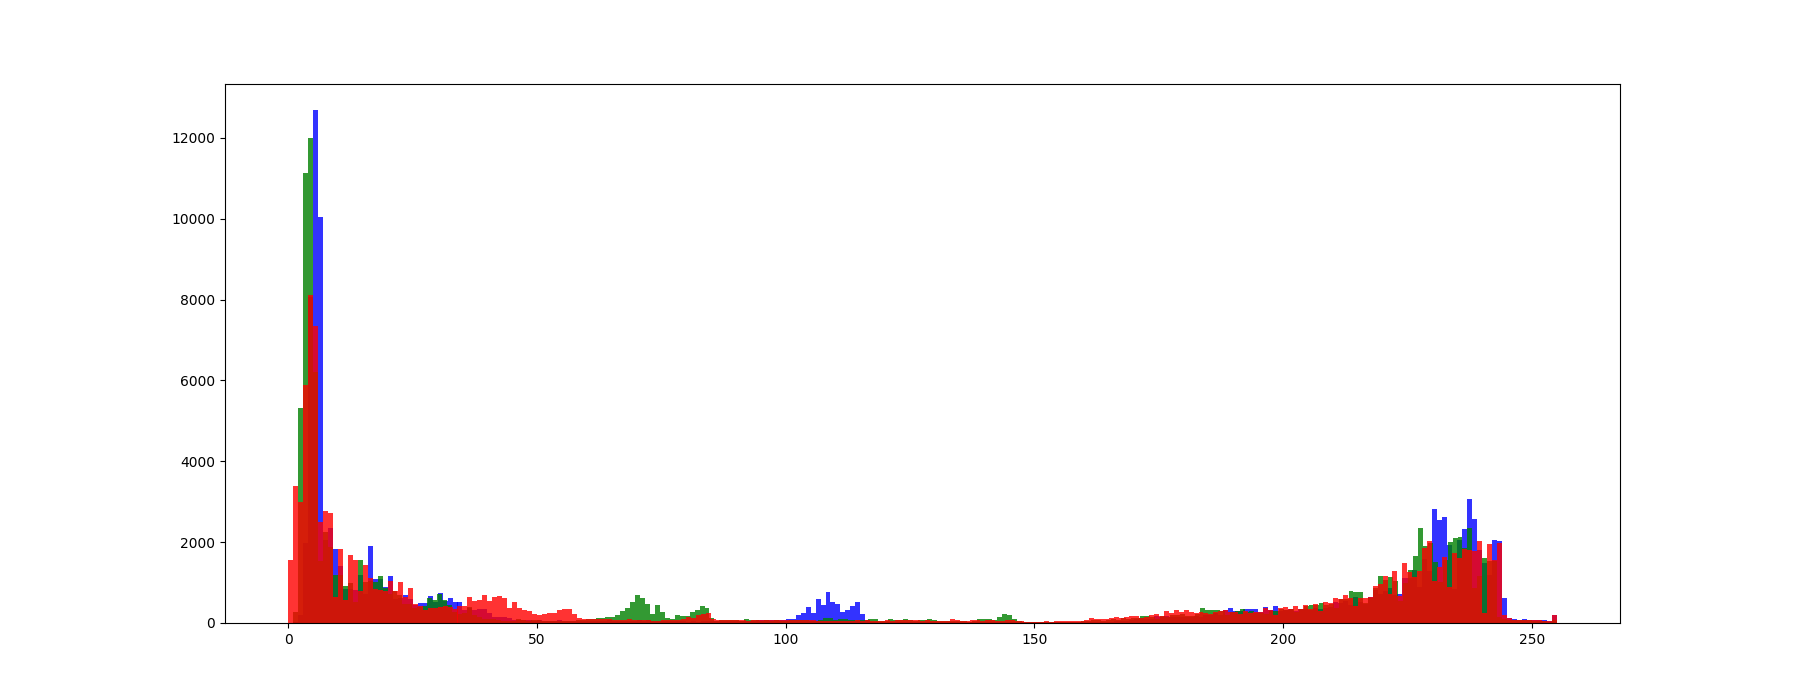
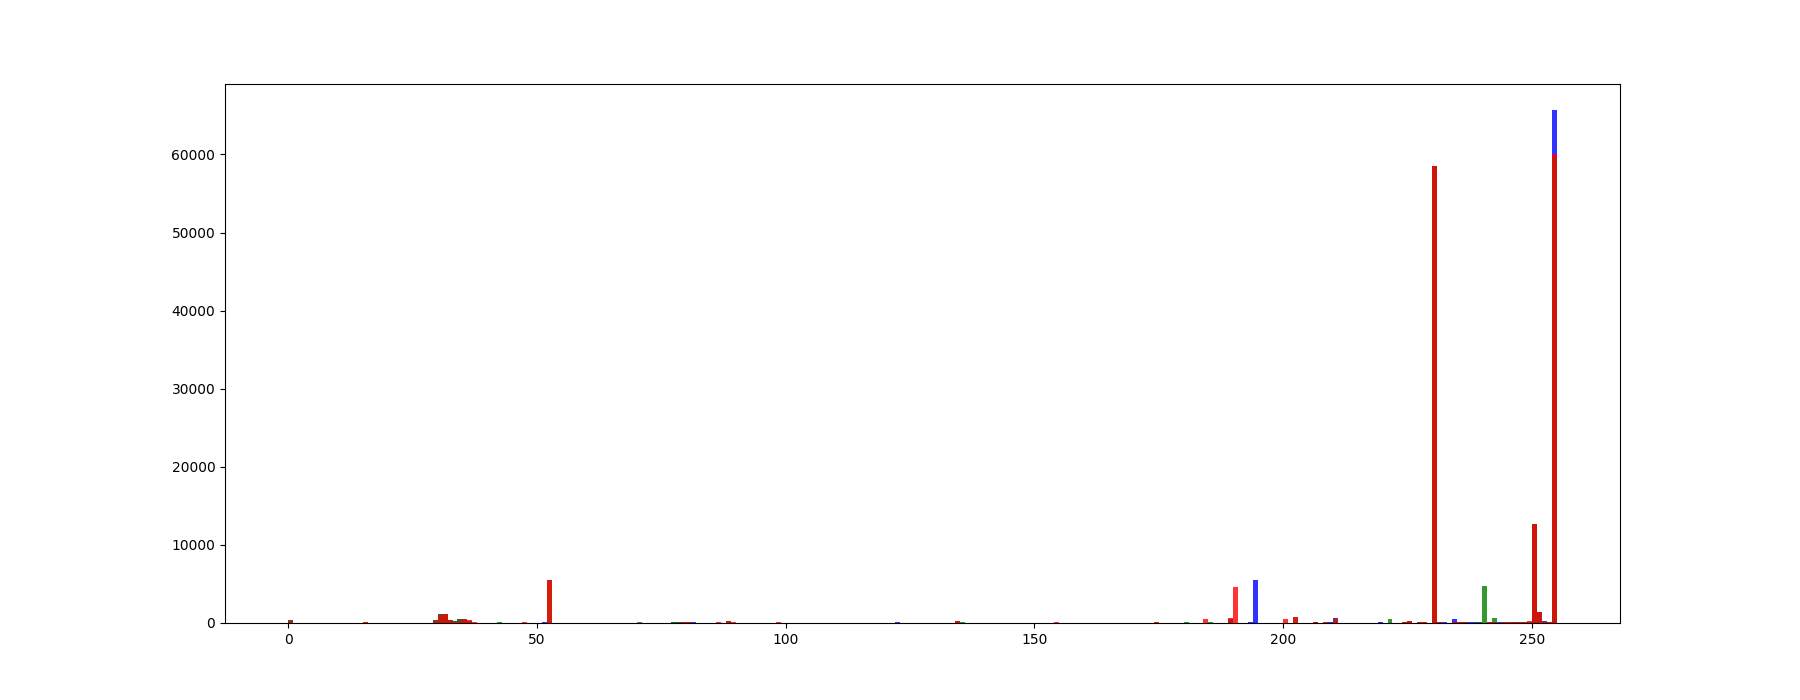
fungsi gui dah kelar semua, tinggal fungsi tombol masing2

diff --git a/GUI3.py b/GUI3.py
@@ -2,7 +2,7 @@ import tkinter as tk
 from tkinter import ttk, NW, filedialog, E, W
 from tkinter import filedialog as fd
 from tkinter.messagebox import showinfo
-
+import os
 from PIL.ImageTk import PhotoImage
 from matplotlib import pyplot as plt
 import numpy as np
@@ -11,6 +11,8 @@ import cv2
 from PIL import Image, ImageTk
 from matplotlib.backends.backend_tkagg import FigureCanvasTkAgg
 from matplotlib.figure import Figure
+
+from RTAgung import RTA
 
 
 class Citra:
@@ -23,6 +25,8 @@ class Citra:
         self.matrix_img_right = None
         self.matrix_hist_left = None
         self.matrix_hist_right = None
+
+        self.rta = RTA(self.matrix_img_left)
 
         # create a toplevel menu
         menubar = tk.Menu()
@@ -93,40 +97,40 @@ class Citra:
         bot_left = tk.Frame(master=frame_bottom, bd=1, width=640, height=250, relief="raised")
         bot_left.pack(fill=tk.BOTH, side=tk.LEFT, expand=True)
 
-        # button
-        b_tresholding = tk.Button(bot_left, text="Tresholding", width=15)
-        b_tresholding.grid(row=0, column=0, padx=5, pady=5)
-
-        b_equalization = tk.Button(bot_left, text="Equalization", width=15)
-        b_equalization.grid(row=0, column=1, padx=5, pady=5)
-
-        b_sketch = tk.Button(bot_left, text="Sketch", width=15)
-        b_sketch.grid(row=0, column=2, padx=5, pady=5)
-
-        b_blur = tk.Button(bot_left, text="Blur", width=15)
-        b_blur.grid(row=1, column=0, padx=5, pady=5)
-
-        b_gray = tk.Button(bot_left, text="Grayscale", width=15)
-        b_gray.grid(row=1, column=1, padx=5, pady=5)
-
-        b_bright = tk.Button(bot_left, text="Brightness", width=15)
-        b_bright.grid(row=1, column=2, padx=5, pady=5)
-
-        b_negative = tk.Button(bot_left, text="Negative", width=15)
-        b_negative.grid(row=2, column=0, padx=5, pady=5)
-
-        b_mirror = tk.Button(bot_left, text="Mirroring", width=15)
-        b_mirror.grid(row=2, column=1, padx=5, pady=5)
-
-        b_sharpening = tk.Button(bot_left, text="Sharpening", width=15)
-        b_sharpening.grid(row=2, column=2, padx=5, pady=5)
-
-        b_edge_detect = tk.Button(bot_left, text="Edge Detection", width=15)
-        b_edge_detect.grid(row=3, column=0, padx=5, pady=5)
-
         # bottom right
-        bot_right = tk.Frame(master=frame_bottom, bd=1, width=640, height=250, relief="raised")
-        bot_right.pack(fill=tk.BOTH, side=tk.LEFT, expand=True)
+        self.bot_right = tk.Frame(master=frame_bottom, bd=1, width=640, height=250, relief="raised")
+        self.bot_right.pack(fill=tk.BOTH, side=tk.LEFT, expand=True)
+
+        # button
+        self.b_tresholding = tk.Button(bot_left, text="Tresholding", width=15)
+        self.b_tresholding.grid(row=0, column=0, padx=5, pady=5)
+
+        self.b_equalization = tk.Button(bot_left, text="Equalization", width=15)
+        self.b_equalization.grid(row=0, column=1, padx=5, pady=5)
+
+        self.b_sketch = tk.Button(bot_left, text="Sketch", width=15)
+        self.b_sketch.grid(row=0, column=2, padx=5, pady=5)
+
+        self.b_blur = tk.Button(bot_left, text="Blur", width=15)
+        self.b_blur.grid(row=1, column=0, padx=5, pady=5)
+
+        self.b_gray = tk.Button(bot_left, text="Grayscale", width=15, command=self.frame_gray)
+        self.b_gray.grid(row=1, column=1, padx=5, pady=5)
+
+        self.b_bright = tk.Button(bot_left, text="Brightness", width=15)
+        self.b_bright.grid(row=1, column=2, padx=5, pady=5)
+
+        self.b_negative = tk.Button(bot_left, text="Negative", width=15)
+        self.b_negative.grid(row=2, column=0, padx=5, pady=5)
+
+        self.b_mirror = tk.Button(bot_left, text="Mirroring", width=15)
+        self.b_mirror.grid(row=2, column=1, padx=5, pady=5)
+
+        self.b_sharpening = tk.Button(bot_left, text="Sharpening", width=15)
+        self.b_sharpening.grid(row=2, column=2, padx=5, pady=5)
+
+        self.b_edge_detect = tk.Button(bot_left, text="Edge Detection", width=15)
+        self.b_edge_detect.grid(row=3, column=0, padx=5, pady=5)
 
     def open_file(self):
         filetypes = (
@@ -152,51 +156,45 @@ class Citra:
 
     def save_file(self):
         self.matrix_img_right = cv2.cvtColor(self.matrix_img_right, cv2.COLOR_BGR2RGB)
-        cv2.imwrite(self.filename, self.matrix_img_right)
+        save_path = "result_image\\" + os.path.basename(self.filename)
+        cv2.imwrite(save_path, self.matrix_img_right)
+
+        showinfo(
+            title='Image Saved',
+            message=save_path
+        )
 
     def show_img_left(self):
-        self.matrix_img = cv2.imread(self.filename)
-        self.matrix_img = cv2.resize(self.matrix_img, dsize=(533, 300), interpolation=cv2.INTER_CUBIC)
-        self.matrix_img = cv2.cvtColor(self.matrix_img, cv2.COLOR_BGR2RGB)
+        self.matrix_img_left = cv2.imread(self.filename)
+        self.matrix_img_left = cv2.resize(self.matrix_img_left, dsize=(533, 300), interpolation=cv2.INTER_CUBIC)
+        self.matrix_img_left = cv2.cvtColor(self.matrix_img_left, cv2.COLOR_BGR2RGB)
 
-        img = ImageTk.PhotoImage(image=Image.fromarray(self.matrix_img))
+        img = ImageTk.PhotoImage(image=Image.fromarray(self.matrix_img_left))
 
         self.panel_img_left.configure(image=img)
         self.panel_img_left.image = img
 
-    def show_img_right(self):
-        # belum selesai
+        self.rta.update_img(self.matrix_img_left)
 
-        # self.panel_img_right.configure(image=img)
-        # self.panel_img_right.image = img
-        return None
+    def show_img_right(self):
+        img = ImageTk.PhotoImage(image=Image.fromarray(self.matrix_img_right))
+
+        self.panel_img_right.configure(image=img)
+        self.panel_img_right.image = img
+        self.show_hist_right()
 
     def show_hist_left(self):
-        self.matrix_img = cv2.imread(self.filename)
-        self.matrix_img = cv2.resize(self.matrix_img, dsize=(480, 270), interpolation=cv2.INTER_CUBIC)
-        self.matrix_img = cv2.cvtColor(self.matrix_img, cv2.COLOR_BGR2RGB)
+        plt.figure(figsize=(18, 7))
 
-        # histr = cv2.calcHist([self.matrix_img], [0], None, [256], [0, 256])
-
-        '''f = Figure(figsize=(1, 1), dpi=50)
-        a = f.add_subplot()
-        canvas = FigureCanvasTkAgg(f, hist_left)
-        canvas.get_tk_widget().pack(side=tk.BOTTOM, fill=tk.BOTH, expand=True)'''
-
-        # plt.plot(histr)
-        plt.figure(figsize=(18,7))
-
-        x = self.matrix_img
+        x = self.matrix_img_left
         b, g, r = cv2.split(x)
         b = b.flatten()
         g = g.flatten()
         r = r.flatten()
-        print(b)
-        print(b.shape)
-        numBins = 255
-        plt.hist(b, numBins, color='blue', alpha=0.8)
-        plt.hist(g, numBins, color='green', alpha=0.8)
-        plt.hist(r, numBins, color='red', alpha=0.8)
+        num_bins = 255
+        plt.hist(b, num_bins, color='blue', alpha=0.8)
+        plt.hist(g, num_bins, color='green', alpha=0.8)
+        plt.hist(r, num_bins, color='red', alpha=0.8)
 
         plt.savefig('hist_left.png')
 
@@ -209,18 +207,22 @@ class Citra:
         self.panel_hist_left.image = img
 
     def show_hist_right(self):
-        self.matrix_img_right = cv2.imread(self.filename)
-        self.matrix_img_right = cv2.resize(self.matrix_img_right, dsize=(480, 270), interpolation=cv2.INTER_CUBIC)
-        self.matrix_img_right = cv2.cvtColor(self.matrix_img_right, cv2.COLOR_BGR2RGB)
+        plt.figure(figsize=(18, 7))
 
-        histr = cv2.calcHist([self.matrix_img_right], [0], None, [256], [0, 256])
+        x = self.matrix_img_right
+        num_bins = 255
+        if x.ndim == 2:
+            x = x.flatten()
+            plt.hist(x, num_bins, color='black', alpha=0.8)
+        else:
+            b, g, r = cv2.split(x)
+            b = b.flatten()
+            g = g.flatten()
+            r = r.flatten()
+            plt.hist(b, num_bins, color='blue', alpha=0.8)
+            plt.hist(g, num_bins, color='green', alpha=0.8)
+            plt.hist(r, num_bins, color='red', alpha=0.8)
 
-        '''f = Figure(figsize=(1, 1), dpi=50)
-        a = f.add_subplot()
-        canvas = FigureCanvasTkAgg(f, hist_left)
-        canvas.get_tk_widget().pack(side=tk.BOTTOM, fill=tk.BOTH, expand=True)'''
-
-        plt.plot(histr)
         plt.savefig('hist_right.png')
 
         matrix_img_hist = cv2.imread('hist_right.png')
@@ -228,7 +230,19 @@ class Citra:
         matrix_img_hist = cv2.cvtColor(matrix_img_hist, cv2.COLOR_BGR2RGB)
         img = ImageTk.PhotoImage(image=Image.fromarray(matrix_img_hist))
 
-        self.panel_hist_left.configure(image=img)
-        self.panel_hist_left.image = img
+        self.panel_hist_right.configure(image=img)
+        self.panel_hist_right.image = img
+
+    def frame_gray(self):
+        panel_gray = None
+
+        def button_gray_action():
+            self.matrix_img_right = self.rta.to_grayscale()
+            self.show_img_right()
+            panel_gray.destroy()
+
+        panel_gray = tk.Button(self.bot_right, text="Process", command=button_gray_action)
+        panel_gray.pack()
+
 
 Citra()

diff --git a/RTAgung.py b/RTAgung.py
@@ -2,7 +2,7 @@ import cv2
 import numpy as np
 
 
-class RTA_Func:
+class RTA:
     def __init__(self, image):
         self.image = image
 
